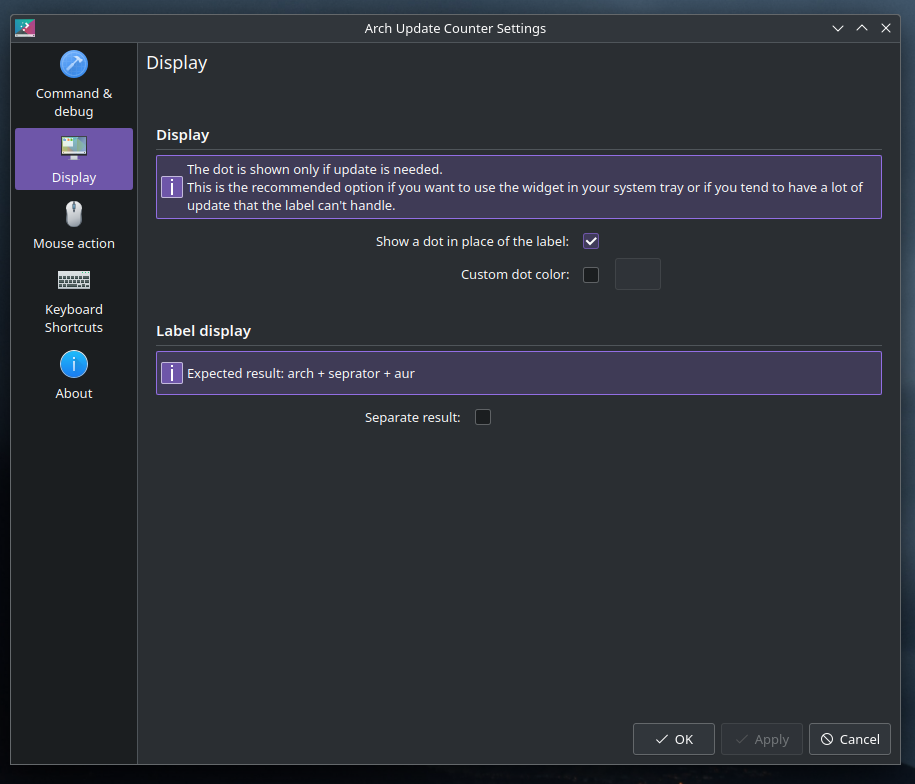
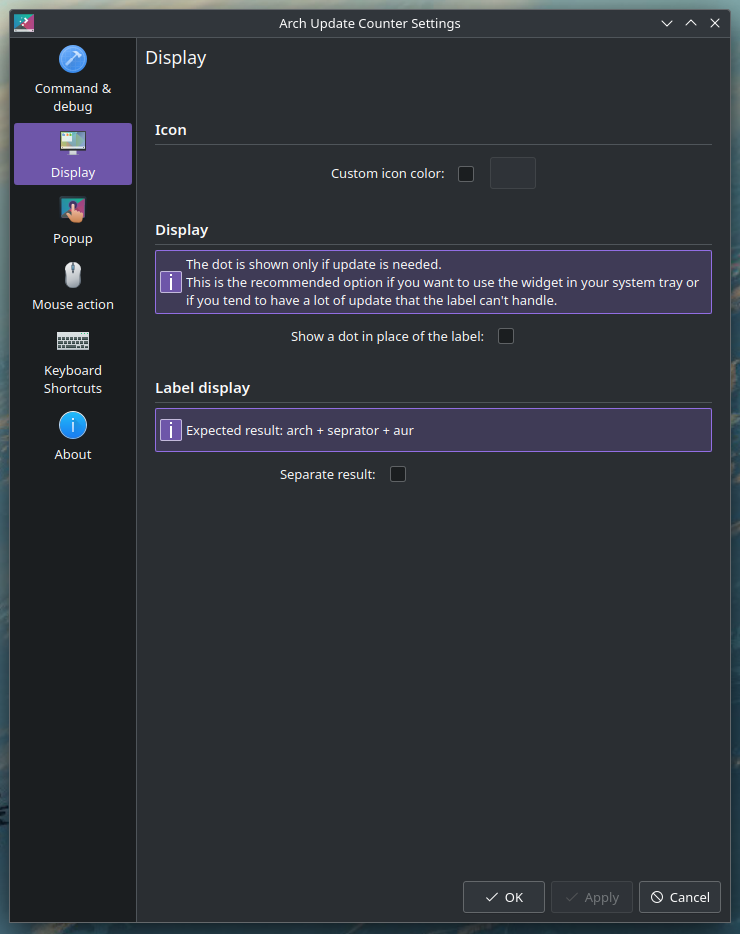
update all the doc and the img

Changed region(s): [[0.0, 0.0, 1.0, 1.0], [0.9946, 0.7959, 1.0, 0.8265]]

diff --git a/README.md b/README.md
@@ -1,8 +1,8 @@
 # Arch update counter - plasma widget
 
-![screenshot of the aplet with all the alt](git-assets/img/v4.2.0/all-alt.png)
+![screenshot of the aplet with all the alt](git-assets/img/allalt.png)
 
-1 - dot w/ custom color  |  2 - dot with theme color  |  3 - label  |  4 - label with separator  |  5 - in the system tray
+1 - custom icon color  |  2 - custom dot color  |  3 - default dot  |  4 - label with separator  |  5 - label without separator | 6 - in the system tray | 7 - package list
 
 ## Description
 
@@ -16,7 +16,11 @@ Custom setting for the update command and for the count command !
 
 You can choose between a dot or a label if an update is available.
 
-Possibility to change the visual of the dot or the visual of the label.
+Possibility to change the visual of the dot, the visual of the label and the visual of the icon.
+
+A popup list all the available update.
+
+And a lot of settings is provided for customizing all that !
 
 ## Installation
 
@@ -53,7 +57,7 @@ You need to have the following packages installed on your system:
 
 Go to the 'System Tray Settings' menu and activate it :)
 
-![screenshot of how to add in the systray](git-assets/img/v4.2.0/add-systray.png)
+![screenshot of how to add in the systray](git-assets/img/add-systray.png)
 
 ## Configuration
 
@@ -67,14 +71,19 @@ Go to the 'System Tray Settings' menu and activate it :)
 | Do not close the terminal at the end | if true add the `--noclose` flag into the `konsole` command | Prevent the console to close at the end of the update command |
 | Count ARCH command | The command you want to execute for counting the packages for CORE and EXTRA (default: `checkupdates [pipe] wc -l`) | The `updater` exec this command |
 | Count AUR command | The command you want to execute for counting the packages for the other db (default: `yay -Qua [pipe] wc -l`) | The `updater` exec this command |
-| Update command | The command you want to execute when the `update` action is called | Pass the command to `konsole -e` |
+| Update all command | The command for updating all the package at once | Pass the command to `konsole -e` |
+| Update one command | The command for updating one package via the popup | Pass the command to `konsole -e` and add the package name at the end |
 | Display | | |
 | Show a dot in place of the label | Replace the label with a colored dot | If the total count is > than 0 the dot is visible, otherwise nothing is shown (no label, no dot) |
 | Custom dot color | If you want to customize the color of the dot | If not checked the dot get the color from your theme via `PlasmaCore.Theme.textColor` |
 | Separate result | If you want to have the total for *arch* and the total for the other db in the label | Set the label text to `' ' + totalArch + separator + totalAur + ' '` |
 | Separator | The text you want to have for, space available | Inject the text you put into the label |
+| Popup | | |
+| Custom X color | You can tick the box if you want a custom color on the X element | Change the color on the popup element and on the preview in the same page |
+| Separator text | Custom text for the version separator | Use the text provided to separate versions in the text |
 | Mouse action | | |
 | Click configuration | Choose the type of action you want to do for each click on the mouse | Left click to check, middle click to update OR Middle click to check, left click to update |
+| Main action behavior | If you want to refresh the list or open the popup when you click | Main click depend on the choice made in the Click configuration settings |
 
 ### Regarding the customization of the commands
 
@@ -84,9 +93,15 @@ In no case I'm responsible of anything if your system break due to your command.
 
 The program launch the update command with `konsole -e`. So you can test your command or script with `konsole -e "my_command"`.
 
-For the update the default command is: `konsole -e (--noclose) 'yay'` where `noclose` is optional.
+When you update all the packages the default command is: `konsole -e (--noclose) 'yay'` where `noclose` is optional.
+
+When you update one package the default command is: `konsole -e (--noclose) 'yay -Sy' packageName` where `noclose` is optional and `packageName` is injected from the list.
 
 ## FAQ
+
+### Why all these options for a similar command
+
+I like to have the opportunity to really configure everything, and to do so simply.
 
 ### Why `yay` and `pacman-contrib`
 
@@ -120,7 +135,7 @@ See the following file :
 
 ## Roadmap
 
-- nothing yet, I take feature request on the go :)
+- Nothing yet, I take feature request on the go :)
 
 ## Want to participate? Have a bug or a request feature?
 
